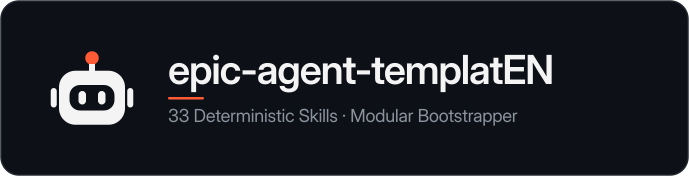
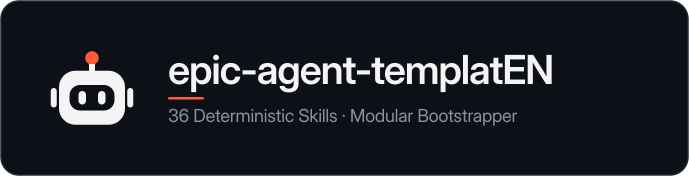
test(evals): add research evals, adopt E2E tests, and 36-skill docs
- Add evals/suites/research.json and ratchet/sabotage cases (183/183 PASS)
- Add E2E tests for --scope research, --adopt preservation, and hardened guard
- Update README, TEMPLATE_GUIDE, Spanish guide, and Light/Dark banners to 36 skills

Changed region(s): [[0.2438, 0.625, 0.762, 0.7102]]

diff --git a/tests/test_init_project.py b/tests/test_init_project.py
@@ -58,7 +58,7 @@ class TemplateInitEndToEndTests(unittest.TestCase):
         proc_cat = _run(["python3", "init_project.py", "--list-catalog"], TEMPLATE_ROOT)
         self.assertEqual(proc_cat.returncode, 0)
         catalog = json.loads(proc_cat.stdout)
-        self.assertEqual(len(catalog["skills"]), 33)
+        self.assertEqual(len(catalog["skills"]), 36)
 
         with tempfile.TemporaryDirectory() as tmp:
             dest = Path(tmp) / "dry_copy"
@@ -317,6 +317,72 @@ class TemplateInitEndToEndTests(unittest.TestCase):
         pin_script = TEMPLATE_ROOT / "_catalog/skills/github/git-commit-and-pr-gate/scripts/verify-action-pins.sh"
         res = _run(["bash", str(pin_script), str(TEMPLATE_ROOT)], TEMPLATE_ROOT)
         self.assertEqual(res.returncode, 0, res.stdout + res.stderr)
+
+    def test_research_scope_brownfield_adopt_and_hardened_guard(self) -> None:
+        with tempfile.TemporaryDirectory() as tmp:
+            t = Path(tmp)
+            # 1. Greenfield --scope api,ml-gpu,research installs all 3 research skills + BENCHMARKS.md
+            res_proj = self._init_copy(
+                t,
+                None,
+                ["--scope", "api,ml-gpu,research"],
+                "proj_research",
+            )
+            res_skills = {p.name for p in (res_proj / ".agents/skills").iterdir() if p.is_dir()}
+            self.assertIn("research-paper-and-literature", res_skills)
+            self.assertIn("research-rigor-and-experiments", res_skills)
+            self.assertIn("research-manuscript-and-prose-gate", res_skills)
+            self.assertTrue((res_proj / "docs/BENCHMARKS.md").is_file())
+
+            # 2. Brownfield --adopt preserves existing README/AGENTS/src and initializes size-ratchet.json
+            existing = t / "legacy_repo"
+            (existing / "src").mkdir(parents=True)
+            (existing / "README.md").write_text("# Legacy README\nKeep intact.\n", encoding="utf-8")
+            (existing / "AGENTS.md").write_text("# Existing Agents\nKeep intact.\n", encoding="utf-8")
+            (existing / "src/big_legacy.py").write_text("x = 1\n" * 410, encoding="utf-8")
+            adopt_res = _run(
+                [
+                    "python3",
+                    "-B",
+                    str(TEMPLATE_ROOT / "init_project.py"),
+                    "--adopt",
+                    str(existing),
+                    "--scope",
+                    "api,ml-gpu,research",
+                    "--infra",
+                    "split-cpu-gpu",
+                    "--yes",
+                ],
+                t,
+            )
+            self.assertEqual(adopt_res.returncode, 0, adopt_res.stdout + adopt_res.stderr)
+            self.assertEqual((existing / "README.md").read_text(encoding="utf-8"), "# Legacy README\nKeep intact.\n")
+            self.assertEqual((existing / "AGENTS.md").read_text(encoding="utf-8"), "# Existing Agents\nKeep intact.\n")
+            self.assertTrue((existing / "AGENTS.template.md").is_file())
+            self.assertNotIn("TEMPLATE_BOOTSTRAP_INTERVIEW", (existing / "AGENTS.template.md").read_text(encoding="utf-8"))
+            self.assertTrue((existing / ".agents/skills/research-rigor-and-experiments").is_dir())
+            self.assertTrue((existing / ".agents/rules/infra-topology.md").is_file())
+            ratchet = json.loads((existing / ".agents/size-ratchet.json").read_text(encoding="utf-8"))
+            self.assertEqual(ratchet["caps"].get("src/big_legacy.py"), 410)
+            # Template catalog remains untouched
+            self.assertTrue((TEMPLATE_ROOT / "_catalog/catalog.json").is_file())
+
+            # 3. Hardened pre_tool_guard.py asks on git push main and .env / *.db writes, allows .env.example
+            guard = existing / ".agents/hooks/pre_tool_guard.py"
+            for payload, expected in [
+                ({"toolCall": {"name": "run_command", "args": {"CommandLine": "git push origin main"}}}, "ask"),
+                ({"toolCall": {"name": "edit_file", "args": {"Path": ".env"}}}, "ask"),
+                ({"toolCall": {"name": "write_file", "args": {"Path": "models/users.db"}}}, "ask"),
+                ({"toolCall": {"name": "edit_file", "args": {"Path": ".env.example"}}}, "allow"),
+            ]:
+                p = subprocess.run(
+                    ["python3", "-B", str(guard)],
+                    input=json.dumps(payload),
+                    text=True,
+                    capture_output=True,
+                    check=True,
+                )
+                self.assertEqual(json.loads(p.stdout)["decision"], expected, f"Failed for {payload}: {p.stdout}")
 
 
 if __name__ == "__main__":

diff --git a/TEMPLATE_GUIDE.md b/TEMPLATE_GUIDE.md
@@ -1,4 +1,4 @@
-# Template Usage Guide (`init_project.py` & 33-Skill Catalog)
+# Template Usage Guide (`init_project.py` & 36-Skill Catalog)
 
 > Visible in the public template repository on GitHub and **automatically deleted** by `init_project.py` (alongside `_catalog/`, `evals/`, `docs/assets/brand/`, `tests/test_init_project.py`, and `init_project.py`) once a child project is initialized.
 
@@ -30,7 +30,8 @@ python3 init_project.py --list-catalog
 | :--- | :--- | :--- |
 | `--code-style` | `minimal-yagni` (default) \| `clean-ddd` \| `functional-dod` | Injects `.agents/rules/code-philosophy.md` (Step 1) |
 | `--kind` (`--nature`) | `app-system` \| `library-cli` \| `game` | High-level project nature when composing via `--scope` (Step 2a) |
-| `--scope` | Comma-separated: `frontend,api,db,ml-gpu,profiling` | Composes exact skills, `.env.example`, and `device.py` per active area (`db` -> `db-migration-and-schema-gate`, `api` -> `api-openapi-contract-gate`) (Step 2b) |
+| `--scope` | Comma-separated: `frontend,api,db,ml-gpu,profiling,research` | Composes exact skills, `.env.example`, and `device.py` per active area (`research` -> 3 scientific paper/rigor/manuscript skills) (Step 2b) |
+| `--adopt` | `/path/to/existing-repo` | Brownfield mode: non-destructively injects `.agents/` skills, rules, hooks, safe `AGENTS.md` & `.agents/size-ratchet.json` without overwriting existing source/docs |
 | `--infra` | `single-node` (default) \| `split-cpu-gpu` | Multi-machine topology emitting `app-cpu`/`db`/`gpu-worker` Compose profiles, `REMOTE_WORKER_URL`, and `.agents/rules/infra-topology.md` (Step 2c) |
 | `--stack` | `web-frontend`, `python-cli`, `python-backend`, `multi-module`, `ml-gpu`, `gamedev-godot` | Selects stack manifest under `_catalog/stacks/<stack>/stack.json` |
 | `--from-spec` | e.g. `_reference/SPEC.md` | Parses `[x]` checkboxes across all 5 setup steps |
@@ -38,7 +39,7 @@ python3 init_project.py --list-catalog
 | `--dim` | `2d` (default) \| `3d` | Game dimension for `gamedev-godot` (`2d` strictly blocks 3D skills) (Step 4) |
 | `--ui-style` (`--ui-profile`) | `minimalist` (default), `neobrutalist`, `bento`, `glassmorphic`, `enterprise`, `editorial`, `terminal`, `fluid` | Selects aesthetic tokens/lint (`ui-design-tokens-and-presets` or `ui-fluid-novel-system`), writes `.agents/rules/ui-aesthetic.md`, and initializes `.agents/ui-contract.json` (Step 3a) |
 | `--ui-tone` | `dark` \| `light` | Polarity for `minimalist` (`dark` Retriever charcoal `#141517` or `light` bone `#F7F6F2`); runs `preset_tokens.py` on init (Step 3b) |
-| `--with-dataviz` / `--with-brand-logo` / `--with-profiling` | Flags | Opt-in toggles for `frontend-dataviz-and-charts`, `brand-logo-and-svg-forge`, and `runtime-profiling-and-observability` |
+| `--with-dataviz` / `--with-brand-logo` / `--with-profiling` / `--with-research` | Flags | Opt-in toggles for `frontend-dataviz-and-charts`, `brand-logo-and-svg-forge`, `runtime-profiling-and-observability`, and the 3 `research/` skills |
 | `--docs` | `user-guide,adr,agent-guide,benchmarks,es` (or `en` \| `bilingual`) | Granular optional documentation selection on top of mandatory `README.md` + `docs/ARCHITECTURE.md` (Step 5) |
 | `--doc-level` | `minimal` \| `standard` (default) \| `full` | Preset shortcuts for `--docs` and `.agents/rules/docs-discipline.md` |
 | `--agents` | `all` (default) \| `antigravity` \| `gemini` \| `claude` | Emits hooks (`pre_tool_guard.py`), `.gemini/settings.json`, `.claude/settings.json`, symlinks, and `GEMINI.md`/`CLAUDE.md` |
@@ -66,7 +67,7 @@ Every skill in `_catalog/skills/` complies with `audit_skill.py --strict --verif
 
 ---
 
-## 3. Complete Catalog of the 33 Executable Skills
+## 3. Complete Catalog of the 36 Executable Skills
 
 | # | Category | Skill (`name`) | Scope / Dim | Executable Engine (`scripts/`) | Concrete Output / Gate |
 | :-: | :--- | :--- | :--- | :--- | :--- |
@@ -74,7 +75,7 @@ Every skill in `_catalog/skills/` complies with `audit_skill.py --strict --verif
 | 2 | `00-core` | `anti-laziness-and-evidence-verifier` | Universal (`any`) | `verify_completion.py` | AST No-Stubbing scanner (Py/TS/C# + `ast-grep`) + `--cmd` runner (`exit=0`) |
 | 3 | `00-core` | `repo-map-and-context-pack` | Universal (`any`) | `repo_map.py` | AST/TS/C# symbol map (`.agents/REPO_MAP.md`) + `--digest-reference` |
 | 4 | `00-core` | `architecture-knowledge-and-docs-sync` | Universal (`any`) | `sync_arch_graph.py`, `audit_docs_integrity.py` | Live `ARCH_GRAPH` Mermaid/table sync + `--check-drift` + doc integrity |
-| 5 | `00-core` | `clean-code-and-architecture-gate` | Universal (`any`) | `detect_stack.py`, `scan_repo.py`, `map_structure.py`, `check_boundaries.py`, `check_compression.py`, `audit_shortcuts_and_lean.py` | Multi-language (21 langs) smells, cycles, dead code, DDD layers, `# shortcut:` ledger/Lean metrics & 14 classic books `.nano.md` |
+| 5 | `00-core` | `clean-code-and-architecture-gate` | Universal (`any`) | `detect_stack.py`, `scan_repo.py`, `size_ratchet.py`, `map_structure.py`, `check_boundaries.py`, `check_compression.py`, `audit_shortcuts_and_lean.py` | Multi-language (21 langs) smells, legacy size ratchet, cycles, dead code, DDD layers, `# shortcut:` ledger/Lean metrics & 14 classic books `.nano.md` |
 | 6 | `00-core` | `systematic-debugging-and-rca` | Universal (`any`) | `triage_failure.py`, `fingerprint.py`, `find_polluter.py` | Stacktrace triage, failing-repro gate, fix-loop hashes & test polluter isolation |
 | 7 | `00-core` | `skill-authoring-and-updater` | Meta (`opt-in`) | `audit_skill.py`, `scaffold_skill.py` | Enforces Gemini v2 `SKILL.md` + `--verify-help` (`--strict`) |
 | 8 | `00-core` | `skill-radar-and-proposals` | Meta (`opt-in`) | `skill_radar.py` | Last-30-days velocity discovery + local reference matcher |
@@ -90,7 +91,7 @@ Every skill in `_catalog/skills/` complies with `audit_skill.py --strict --verif
 | 18 | `backend` | `backend-security-and-owasp-gate` | Scope `api`/`db`/CLI | `security_gate.py`, `dependency_scanner.py`, `injection_scanner.py`, `secrets_scanner.py`, `scope.py` | Redacted secrets, SQLi/XSS/SSRF injection & secret entropy scanners, file scope resolver, OWASP AST, deps/Dockerfiles + `bandit`/`semgrep` |
 | 19 | `backend` | `api-openapi-contract-gate` | Scope `api` | `openapi_contract_gate.py` | OpenAPI 3.x/Swagger response schemas, list pagination & FastAPI/Flask/Express route parity |
 | 20 | `backend` | `db-migration-and-schema-gate` | Scope `db` ONLY | `audit_sql_and_migrations.py`, `check_drizzle_migrations.py` | Blocks `DROP`/`TRUNCATE`, `NOT NULL` without `DEFAULT`, unindexed FKs, Alembic split heads & Drizzle conflicts |
-| 21 | `testing` | `test-and-mutation-gate` | Web / Backend / CLI | `test_audit.py`, `with_server.py` | Ghost-test AST detector + `mutmut`/`stryker` wrapper + E2E server manager |
+| 21 | `testing` | `test-and-mutation-gate` | Web / Backend / CLI | `test_audit.py`, `sabotage_check.py`, `with_server.py` | Ghost-test AST detector, targeted invariant sabotage (`tests/invariants.yaml`), `mutmut`/`stryker` wrapper & E2E server manager |
 | 22 | `testing` | `runtime-profiling-and-observability` | Scope `ml-gpu`/`profiling` | `profile_and_observability_gate.py` | p50/p95 latency, `cProfile` hotspots, `tracemalloc` memory budgets & secret-in-log audit |
 | 23 | `infra` | `docker-and-env-auditor` | Docker / `split-cpu-gpu` | `docker_env_linter.py` | Code <-> `.env.example` sync + `Dockerfile`/Compose + `hadolint` |
 | 24 | `infra` | `ml-gpu-workload-harness` | Scope `ml-gpu` | `gpu_workload_auditor.py`, `gpu_health.sh`, `mem_monitor.sh` | Model weight ignore guard, GPU/VRAM & RSS telemetry scripts + AST-verified `cpu/mps/cuda` + `inference_mode()` |
@@ -103,3 +104,6 @@ Every skill in `_catalog/skills/` complies with `audit_skill.py --strict --verif
 | 31 | `gamedev` | `godot-2d-autotile-and-parallax` | Godot (`2d`) | `autotile_seam_builder.py`, `autotile_build.py`, `layout_build.py`, `validate_layout.py`, `forge_nav.py`, `parallax_build.py`, `validate_parallax.py`, `export_godot.py`, `forge_schema.py` | Wang-16 tiles & tilemap builder, periodic parallax & validation, 2D layout validation, BFS nav reachability & Godot export |
 | 32 | `gamedev` | `godot-procedural-audio-and-sfx` | Godot (`2d`, `3d`) | `synth_sfx.py` | Pure-NumPy DSP generator for peak-normalized 16-bit WAV SFX |
 | 33 | `gamedev-3d` | `godot-3d-asset-and-rig-qa` | Godot (`3d` ONLY) | `audit_glb_assets.py` | GLB/glTF mesh, draw-call budget, texture & animation audit (never in 2D) |
+| 34 | `research` | `research-paper-and-literature` | Scope `research` | `paper_tools.py`, `check_synthesis.py` | Legal open-access PDF fetch/extraction, verbatim quote verification (`quotes.verify.json`) & `synthesis.md` citation gate |
+| 35 | `research` | `research-rigor-and-experiments` | Scope `research` | `audit_research_rigor.py` | AST data-leakage, PyTorch `eval()`/`inference_mode()`, seeding & claim traceability + Q1 statistical/ablation/UNDER-OVER guide |
+| 36 | `research` | `research-manuscript-and-prose-gate` | Scope `research` | `check_section.py`, `stylometry.py`, `check_figure_pdf.py` | LaTeX `.bib`/`numbers.md`/glossary gate, LLM prose stylometry with number/citation preservation & PDF venue/CVD palette audit |

diff --git a/README.md b/README.md
@@ -11,13 +11,13 @@
 # epic-agent-templatEN
 
 [![Python](https://img.shields.io/badge/Python-3.12%2B-blue.svg)](https://www.python.org/)
-[![Agent Skills](https://img.shields.io/badge/Agent%20Skills-33%20Script--Backed-111827.svg)](TEMPLATE_GUIDE.md)
+[![Agent Skills](https://img.shields.io/badge/Agent%20Skills-36%20Script--Backed-111827.svg)](TEMPLATE_GUIDE.md)
 [![Gemini Ready](https://img.shields.io/badge/Google%20Antigravity-Gemini%20Native-4285F4.svg)](TEMPLATE_GUIDE.md)
 [![License](https://img.shields.io/badge/License-Apache%202.0-green.svg)](LICENSE)
 
 ## Project Overview
 
-**epic-agent-templatEN** is a modular agent-first project template with an interactive bootstrapper that prunes **33 deterministic engineering, frontend, and gamedev skills** to fit your exact stack. Engineered natively for **Google Antigravity (Gemini)** and open Agent Skills hosts, every skill follows progressive disclosure (`SKILL.md` with third-person triggers, Decision Trees, and black-box `--help` scripts) and ships deterministic Python/Node/Bash tooling instead of hollow prompts.
+**epic-agent-templatEN** is a modular agent-first project template with an interactive bootstrapper that prunes **36 deterministic engineering, frontend, research, and gamedev skills** to fit your exact stack (for greenfield projects or non-destructive brownfield adoption via `--adopt`). Engineered natively for **Google Antigravity (Gemini)** and open Agent Skills hosts, every skill follows progressive disclosure (`SKILL.md` with third-person triggers, Decision Trees, and black-box `--help` scripts) and ships deterministic Python/Node/Bash tooling instead of hollow prompts.
 
 Key capabilities designed for real engineering and game development:
 1. **Live Knowledge Graph (`docs/ARCHITECTURE.md`):** `sync_arch_graph.py` extracts AST functional blocks, public exports, and dependency edges into Mermaid + tables, giving both humans and Gemini a zero-bloat navigation map even on large repos.
@@ -31,7 +31,7 @@ Key capabilities designed for real engineering and game development:
 epic-agent-templatEN/
 ├── AGENTS.md                   # Bilingual engineering rules & zero-duplication doc matrix
 ├── Makefile                    # Universal entrypoint (help, setup, dev, lint, format, test, verify)
-├── TEMPLATE_GUIDE.md           # Full flag, stack, and 33-skill reference (auto-removed on init)
+├── TEMPLATE_GUIDE.md           # Full flag, stack, and 36-skill reference (auto-removed on init)
 ├── init_project.py             # 5-step modular questionnaire, spec router & auto-cleaner (auto-removed on init)
 ├── evals/                      # Reproducible functional eval suite across all 33 skills (auto-removed)
 ├── .agents/                    # Always-on quality rules, hooks & active 1-level workspace skills
@@ -88,15 +88,18 @@ python3 init_project.py --stack gamedev-godot --dim 2d --name my-2d-game --yes
 # Or initialize straight from your checkboxes in _reference/SPEC.md
 python3 init_project.py --from-spec _reference/SPEC.md --name my-project --yes
 
-# Or compose modularly by scope (API + DB + split CPU/GPU topology + selected docs)
-python3 init_project.py --code-style clean-ddd --scope api,db,ml-gpu --infra split-cpu-gpu --docs user-guide,agent-guide --name my-service --yes
+# Or compose modularly by scope (API + ML/GPU + scientific research + split CPU/GPU topology)
+python3 init_project.py --code-style clean-ddd --scope api,ml-gpu,research --infra split-cpu-gpu --docs user-guide,agent-guide --name my-research-service --yes
 
-# Or inspect all 33 skills and cherry-pick manually
+# Or adopt non-destructively into an existing repository (injects .agents/, hooks, rules & size ratchet)
+python3 init_project.py --adopt /path/to/existing-repo --scope api,ml-gpu,profiling,research --infra split-cpu-gpu --yes
+
+# Or inspect all 36 skills and cherry-pick manually
 python3 init_project.py --list-catalog
 ```
 
 <details>
-<summary>Catalog Summary: All 33 Gemini-Optimized Executable Skills (Click to Expand)</summary>
+<summary>Catalog Summary: All 36 Gemini-Optimized Executable Skills (Click to Expand)</summary>
 
 Every skill follows progressive disclosure, `## Decision Tree` routing, black-box `--help` execution, and zero pure-prompt fluff. See [Template Guide](TEMPLATE_GUIDE.md) for every script and CLI flag.
 
@@ -108,6 +111,7 @@ Every skill follows progressive disclosure, `## Decision Tree` routing, black-bo
 - **`github/` (1):** `git-commit-and-pr-gate`
 - **`testing/` (2):** `test-and-mutation-gate`, `runtime-profiling-and-observability`
 - **`infra/` (2):** `docker-and-env-auditor`, `ml-gpu-workload-harness`
+- **`research/` (3, Opt-In `--scope research`):** `research-paper-and-literature`, `research-rigor-and-experiments`, `research-manuscript-and-prose-gate`
 
 </details>
 
@@ -115,7 +119,7 @@ Every skill follows progressive disclosure, `## Decision Tree` routing, black-bo
 
 | Document | Link | Primary Purpose |
 | :--- | :--- | :--- |
-| **Template & CLI Guide** | [Template Guide](TEMPLATE_GUIDE.md) | Complete reference of flags, 6 stacks, 5 steps, and 33 skills (auto-removed on init) |
+| **Template & CLI Guide** | [Template Guide](TEMPLATE_GUIDE.md) | Complete reference of flags, 6 stacks, 5 steps, `--adopt`, and 36 skills (auto-removed on init) |
 | **Guía en Español** | [Español](docs/README.es.md) | Resumen del sistema y flujo de uso en español |
 | **System Architecture** | [Architecture](docs/ARCHITECTURE.md) | Central knowledge graph (`ARCH_GRAPH`) & module boundaries |
 | **User Guide** | [User Guide](docs/USER_GUIDE.md) | Environment setup, `make` interface, and troubleshooting |

diff --git a/docs/README.es.md b/docs/README.es.md
@@ -8,9 +8,9 @@
   </picture>
 </p>
 
-# Antigravity Base Template (Guía Rápida en Español)
+# epic-agent-templatEN (Guía Rápida en Español)
 
-Plantilla de ingeniería nativa para **Google Antigravity (Gemini)**, **Gemini CLI** y **Claude Code** con núcleo cero-tecnología, **33 skills ejecutables respaldadas por scripts reales** (sin prompts vacíos), suite completa de **Arte 2D / Pixel Art / Vector / Audio DSP / Shaders** para juegos y **Grafo de Conocimiento vivo** en `docs/ARCHITECTURE.md`.
+Plantilla de ingeniería nativa para **Google Antigravity (Gemini)**, **Gemini CLI** y **Claude Code** con núcleo cero-tecnología, **36 skills ejecutables respaldadas por scripts reales** (sin prompts vacíos), flujo completo de **investigación científica (`--scope research`)**, suite de **Arte 2D / Pixel Art / Vector / Audio DSP / Shaders**, adopción no destructiva en repos existentes (`--adopt`) y **Grafo de Conocimiento vivo** en `docs/ARCHITECTURE.md`.
 
 ## Flujo de Uso en 5 Pasos (Clonar -> Cuestionario / Bot -> Especificar -> Construir)
 
@@ -18,7 +18,7 @@ Plantilla de ingeniería nativa para **Google Antigravity (Gemini)**, **Gemini C
    - **Paso 1 — Filosofía de código (`--code-style`):** `minimal-yagni` (escalera Ponytail), `clean-ddd` (Clean Architecture / DDD) o `functional-dod` (Funcional / DOD).
    - **Paso 2 — Naturaleza, Alcance Modular (`--scope`) e Infraestructura (`--infra`):**
      - Naturaleza: `app-system`, `library-cli` o `game`.
-     - Alcance composable en `app-system`: `frontend`, `api` (inyecta `api-openapi-contract-gate`), `db` (inyecta `db-migration-and-schema-gate` **solo si lleva BD**), `ml-gpu` y `profiling` (`runtime-profiling-and-observability`).
+     - Alcance composable en `app-system`: `frontend`, `api` (inyecta `api-openapi-contract-gate`), `db` (inyecta `db-migration-and-schema-gate` **solo si lleva BD**), `ml-gpu`, `profiling` y `research` (papers PDF/citas, rigor Q1 anti-data-leakage, LaTeX/estilometría/figuras).
      - Topología (`--infra`): `single-node` (1 máquina) o `split-cpu-gpu` (divide CPU/UI/API y worker GPU/DB en varias máquinas con `compose.yaml` por perfiles `app-cpu`/`db`/`gpu-worker` y variables `REMOTE_WORKER_URL`).
    - **Paso 3 — Estética frontend (`--ui-style` y `--ui-tone dark|light`):** 7 presets (`minimalist` 4 fases estilo Retriever dark/light, `neobrutalist`, `bento`, `glassmorphic`, `enterprise`, `editorial`, `terminal`) o `fluid`, más `--with-dataviz` y `--with-brand-logo`.
    - **Paso 4 — Dimensión de juego (`--dim 2d | 3d`):** `2d` por defecto como camino rápido principal (aislando al 100% las skills 2D de las 3D).
@@ -28,7 +28,7 @@ Plantilla de ingeniería nativa para **Google Antigravity (Gemini)**, **Gemini C
 
 ## Documentación Relacionada
 
-- [Template Guide (EN)](../TEMPLATE_GUIDE.md): referencia completa de flags (`--code-style`, `--scope`, `--infra`, `--ui-style`, `--ui-tone`, `--docs`, `--from-spec`), stacks y las 33 skills.
+- [Template Guide (EN)](../TEMPLATE_GUIDE.md): referencia completa de flags (`--code-style`, `--scope`, `--infra`, `--ui-style`, `--ui-tone`, `--docs`, `--adopt`, `--from-spec`), stacks y las 36 skills.
 - [System Architecture](ARCHITECTURE.md): mapa central y grafo de módulos (`ARCH_GRAPH`).
 - [User Guide](USER_GUIDE.md): guía de comandos `make`, variables y resolución de problemas.
 - [ADRs](adr/README.md): registro de decisiones de arquitectura.
